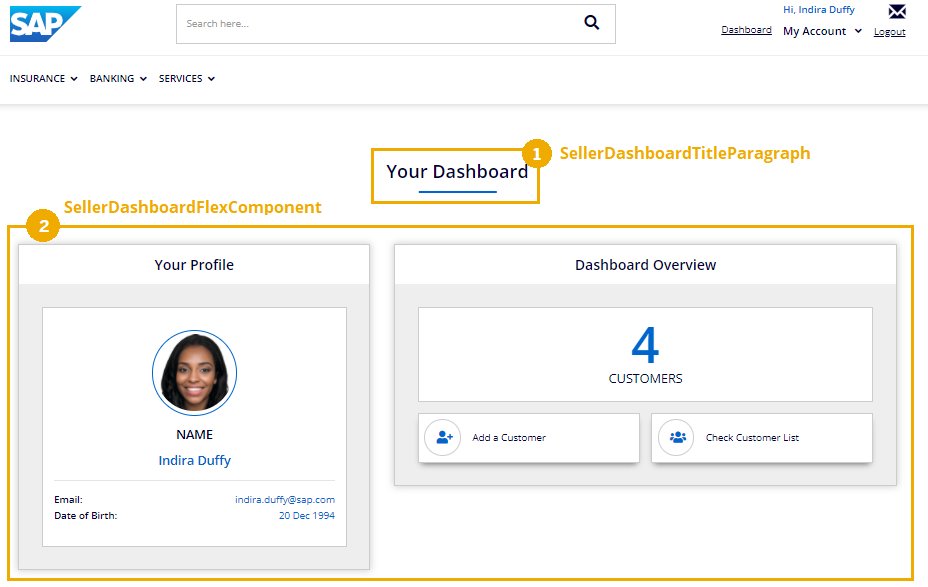
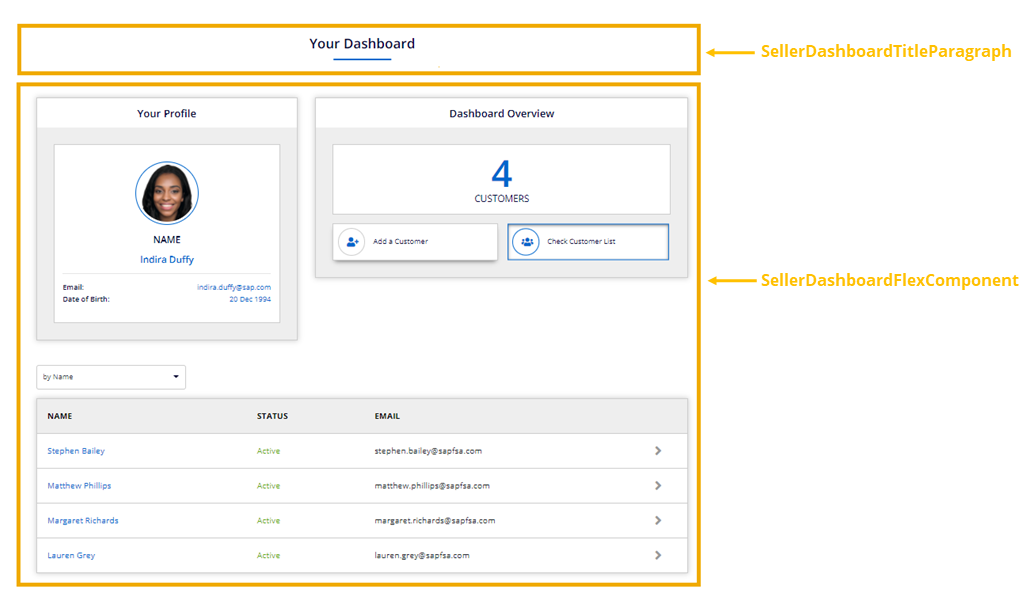
Added My Dashboard page; updated nav file; restructured OBO page

diff --git a/_pages/fsa/features/fsa-agent-enablement.md b/_pages/fsa/features/fsa-agent-enablement.md
@@ -30,26 +30,7 @@ The central place of the OBO framework is the Seller Dashboard page.
 
 For more information on back-end implementation, see [Agent Enablement](https://help.sap.com/viewer/a7d0f0c5faa44002bf81e1a9a91c77e2/latest/en-US/cbf7b289a4414090a26e23077e2e4e1f.html) documentation on the SAP Help Portal. 
 
-## Seller Dashboard
-
-To support this feature on the storefront, Seller Dashboard has been introduced.
-
-![Seller Dashboard Preview]({{ site.baseurl }}/assets/images/fsa/OBO/seller-dashboard-overview.png)
-
-### Components
-
-Seller Dashboard is a content page with ID *seller-dashboard*, consisted of two content slots. 
-The first content slot contains `SellerDashboardTitleParagraph` which is responsible for rendering the title of the page. 
-The second content slot contains `SellerDashboardFlexComponent`, which maps to the FSA Spartacus `SellerDashboardComponent`, responsible for rendering the seller dashboard details. 
-`SellerDashboardComponent` displays seller's photo and personal details (name, e-mail, date of birth), as well as the paginated list of seller's customers. 
-
-![Seller Dashboard Content Slots]({{ site.baseurl }}/assets/images/fsa/OBO/seller-dashboard-content-slots.png)
-
-### Guards
-
-The Seller Dashboard page is guarded by the guards implemented by Spartacus, like `AuthGuard` and `CmsPageGuard`, and by a custom `SellerDashboardGuard`. 
-`SellerDashboardGuard` will allow access to the page only if the currently logged-in customer is part of the seller user group. 
-If not, the appropriate message is displayed, informing the user that they do not have sufficient permissions.
+To support this feature on the storefront, a Seller Dashboard has been introduced.
 
 ## User Journey 
 
@@ -60,6 +41,8 @@ After logging in, the business user with the seller role can access the Seller D
 ![Accessing Seller Dashboard]({{ site.baseurl }}/assets/images/fsa/OBO/seller-dashboard-access-link.png)
 
 After they land on the Dashboard, sellers can see their personal details on the right, while in the Dashboard Options section on the left, they can see number of existing customers, as well as options for adding a new customer and previewing the list of existing customers. 
+
+![Seller Dashboard Preview]({{ site.baseurl }}/assets/images/fsa/OBO/seller-dashboard-overview.png)
 
 The page route is */seller-dashboard*.
 
@@ -81,21 +64,48 @@ After saving the changes, seller can see the newly created customer in their lis
 ### Performing Actions On-Behalf-of the Customer
 
 In the default implementation, besides creating an account for the customer, the seller can create quotes and applications. 
-The quotation and application process is similar to the one initiated by the customer, except that the seller fills in the forms with data provided by the customer. 
-After selecting the insurance type, the seller fills in the initial form, chooses the cover, adds options if required, and, on the ***Personal Details** step, enters customer personal information.
-So far the steps follow the usual quotation and application procedure. 
-On the **Quote Review step**, the seller is prompted to choose the customer for whom they wish to create the quote/application. 
+The seller starts the quotation and application process as if they were logged in to the portal as the customer, filling in the forms with data previously obtained from the customer. 
+For the seller, one additional sequence has been added on the **Quote Review step**.
+Namely, on this steo, the seller is prompted to select the customer for whom they wish to create the quote/application. 
 The seller selects the customer by clicking the **Select** link next to the customer's name. 
 
-![Customer List]({{ site.baseurl }}/assets/images/fsa/OBO/seller-customer-selected.png)
+![Customer List on Quote Review Step]({{ site.baseurl }}/assets/images/fsa/OBO/seller-customer-selected.png)
 
-The seller can select only one customer. Clicking again on a **Select** link next to another customer deselects the previously selected customer.
-After that, the seller confirms the quote, which then becomes bound.
+The seller can select only one customer at the time. 
+Clicking again on the **Select** link next to another customer's name will deselect the previously selected customer.
+After selecting the customer, the seller confirms the quote, which then becomes bound.
+The system informs the seller that the quote has been successfully created with a toast message and returns them to the homepage.
 
-The seller can create several quotes or applications for the same customer. 
+![Toast Message Informing the Seller that the Quote is Created]({{ site.baseurl }}/assets/images/fsa/OBO/seller-creates-quote-for-customer-notification.png)
 
-The customer on whose behalf the seller was acting can then log in to their account, access the created quotes on the **Quotes and Applications** page of the **My Account** area.
-The customer can then finish the checkout by entering the payment details.
+The seller can create as many quotes or applications for the customer as found necessary. 
+After creating the quote, the seller can check if the quote they just created appears on the Customer Dashboard.
+To do that, the seller navigates to Dashboard, opens the list of customers and selects the customer on whose behalf they just created the quote. 
+Click on the arrow opens the Customer Dashboard, where the seller chooses to check customer's quotes and applications. 
+The newly created quote appears in the list. 
+
+![Seller Dashboard Preview]({{ site.baseurl }}/assets/images/fsa/OBO/seller-dashboard-overview.png)
+
+For more information about customer dashboard, see [My Dashboard]({{ site.baseurl }}/pages/fsa/features/fsa-my-dashboard.png)
+ documentation. 
+
+The customer on whose behalf the seller was acting can then log in to their account and access the created quotes on the **Quotes and Applications** page of the **My Account** area.
+The customer then retrieves the quote or application, enters payment details and completes the checkout.
+
+## Components
+
+Seller Dashboard is a content page (ID *seller-dashboard*), which consists of two content slots. 
+The first content slot contains `SellerDashboardTitleParagraph` which is responsible for rendering the title of the page. 
+The second content slot contains `SellerDashboardFlexComponent`, which maps to the FSA Spartacus `SellerDashboardComponent`, responsible for rendering the seller dashboard details. 
+`SellerDashboardComponent` displays seller's photo and personal details (name, e-mail, date of birth), as well as the paginated list of seller's customers. 
+
+![Seller Dashboard Content Slots]({{ site.baseurl }}/assets/images/fsa/OBO/seller-dashboard-content-slots.png)
+
+## Guards
+
+The Seller Dashboard page is guarded by the guards implemented by Spartacus, like `AuthGuard` and `CmsPageGuard`, and by a custom `SellerDashboardGuard`. 
+`SellerDashboardGuard` will allow access to the page only if the currently logged-in customer is part of the seller user group. 
+If not, the appropriate message is displayed, informing the user that they do not have sufficient permissions.
 
 
 

diff --git a/_pages/fsa/features/fsa-my-dashboard.md b/_pages/fsa/features/fsa-my-dashboard.md
@@ -1,0 +1,58 @@
+---
+title: FSA My Dashboard
+---
+
+**Note**: This feature is introduced with version 4.0 of the FSA Spartacus libraries.
+
+Financial Services Accelerator introduces a single information place for customers called My Dashboard. 
+
+***
+
+**Table of Contents**
+
+- This will become a table of contents (this text will be scrapped).
+{:toc}
+
+***
+
+## Overview
+
+The On-behalf-of Framework is based on the on-behalf-of consent (`OBOConsent`), and a new user group named Seller Group (`sellergroup`).
+
+To make use of this feature, business users first need to be added to the Seller Group. 
+Every member of this user group is defined as a **Seller** and can create new customers and perform actions on their behalf in the portal.
+Adding users to Seller Group is done through the Backoffice. 
+
+When sellers create customers, they are automatically given the `OBOConsent` with full permissions to execute business actions in name of the created customer. 
+Currently, the seller can prepare quotes for a customer and get a preview of their activities and insured objects (quotes, policies, claims). 
+The central place of the OBO framework is the Seller Dashboard page. 
+
+For more information on back-end implementation, see [Agent Enablement](https://help.sap.com/viewer/a7d0f0c5faa44002bf81e1a9a91c77e2/latest/en-US/cbf7b289a4414090a26e23077e2e4e1f.html) documentation on the SAP Help Portal. 
+
+To support this feature on the storefront, a Seller Dashboard has been introduced.
+
+## User Journey 
+
+### Accessing the Dashboard
+
+After logging in, the customer can access the Dashboard by clicking the **Dashboard** link in the upper right corner, next to **My Account**. 
+
+![Accessing My Dashboard]({{ site.baseurl }}/assets/images/fsa/OBO/seller-dashboard-access-link.png)
+
+After they land on the Dashboard, customer can see their personal details on the right, while in the Dashboard Options section on the left, they can see number of existing insurance objects, such as Quotes and Applications, Policies, and Claims. 
+
+![My Dashboard Preview]({{ site.baseurl }}/assets/images/fsa/OBO/seller-dashboard-overview.png)
+
+The page route is */dashboard*.
+
+## Components
+
+Dashboard is a content page (ID *my-dashboard*), which consists of two content slots. 
+The first content slot contains `DashboardTitleParagraph` which is responsible for rendering the title of the page. 
+The second content slot contains `DashboardFlexComponent`, which maps to the FSA Spartacus `SellerDashboardComponent`, responsible for rendering the seller dashboard details. 
+`DashboardComponent` displays seller's photo and personal details (name, e-mail, date of birth), as well as the paginated list of seller's customers. 
+
+![Seller Dashboard Content Slots]({{ site.baseurl }}/assets/images/fsa/OBO/seller-dashboard-content-slots.png)
+
+
+

diff --git a/_pages/fsa/spartacus-features-for-fsa.md b/_pages/fsa/spartacus-features-for-fsa.md
@@ -12,6 +12,7 @@ This is a landing page for grouping together FSA Spartacus features. The FSA Spa
 - [Claim Update]({{ site.baseurl }}{% link _pages/fsa/features/claims/claim-update.md %})
 - [Chatbot]({{ site.baseurl }}{% link _pages/fsa/features/fsa-chatbot.md %})
 - [Agent Enablement - On-Behalf-of Framework]({{ site.baseurl }}{% link _pages/fsa/features/fsa-agent-enablement.md %})
+- [My Dashboard]({{ site.baseurl }}{% link _pages/fsa/features/fsa-my-dashboard.md %})
 - [Live Contract Integration Enhancements]({{ site.baseurl }}{% link _pages/fsa/features/agents/fsa-insurance-agent-capabilities.md %})
 
 
